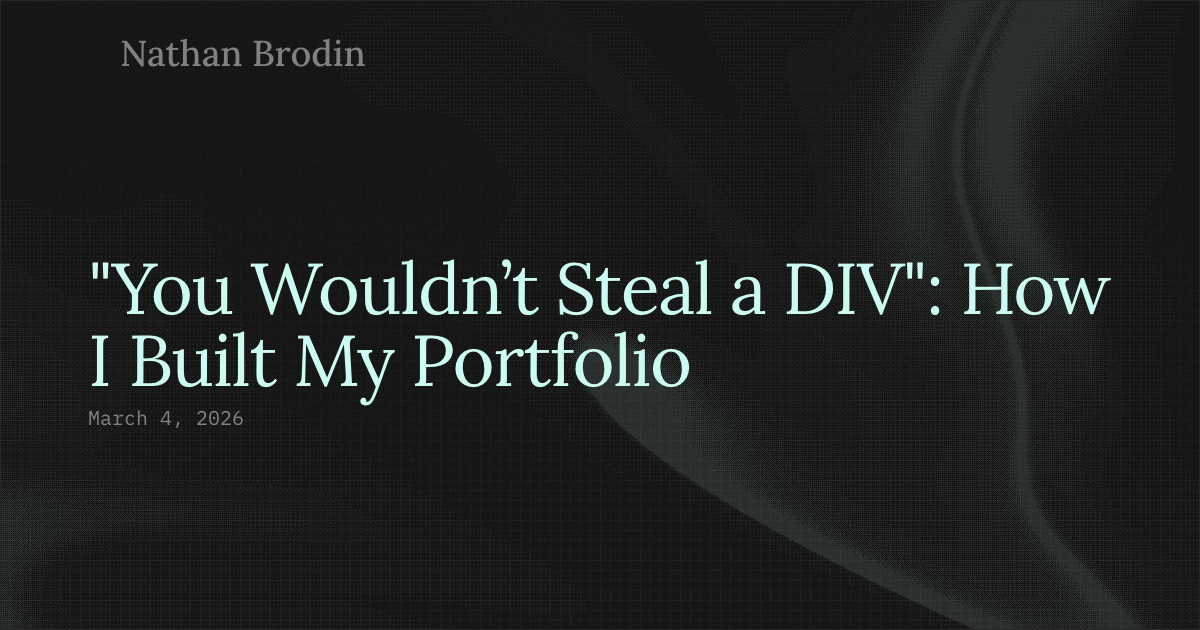
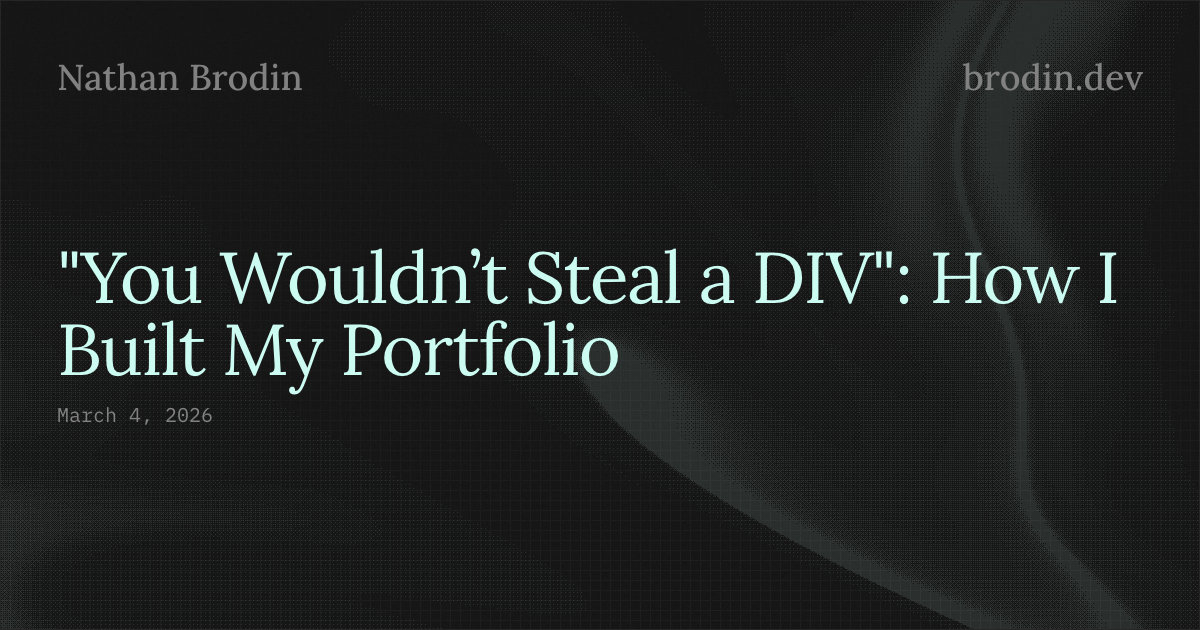
feat: new of images

Changed region(s): [[0.0308, 0.3921, 0.925, 0.6937], [0.0308, 0.0603, 0.3083, 0.1508], [0.8017, 0.0905, 0.9558, 0.1508]]

diff --git a/src/routes/blog/$slug/og/index.tsx b/src/routes/blog/$slug/og/index.tsx
@@ -41,21 +41,24 @@ function RouteComponent() {
     <Page>
       <div
         id="og"
-        className="relative mt-2 flex flex-col items-center overflow-hidden border"
+        className="relative mt-2 flex h-full flex-col items-center justify-between overflow-hidden border p-14"
         style={{ width: 1200, height: 630 }}
       >
-        <Section className="h-full border-none p-8">
+        <div className="flex w-full justify-between">
           <span className="text-muted-foreground font-display text-4xl font-medium text-balance">
             Nathan Brodin
           </span>
-        </Section>
-        <Section className="flex h-fit flex-col border-none py-24">
+          <span className="text-muted-foreground font-display text-4xl font-medium text-balance">
+            brodin.dev
+          </span>
+        </div>
+        <div className="flex flex-col gap-2">
           <PageTitle className="text-7xl">{post.title}</PageTitle>
           <PageDescription className="text-muted-foreground mt-2 font-mono text-xl">
             {formatDate(post.date)}
           </PageDescription>
-        </Section>
-        <Section className="h-full border-none"></Section>
+        </div>
+        <div />
         <div className="pointer-events-none absolute inset-0 -z-1 h-full w-full overflow-hidden opacity-10">
           <Dithering
             width={1200}

diff --git a/src/routes/og/index.tsx b/src/routes/og/index.tsx
@@ -33,18 +33,18 @@ function RouteComponent() {
     <Page>
       <div
         id="og"
-        className="relative mt-2 flex flex-col items-center overflow-hidden border"
+        className="relative mt-2 flex h-full flex-col justify-between overflow-hidden border p-14"
         style={{ width: 1200, height: 630 }}
       >
-        <Section className="h-full border-none"></Section>
-        <Section className="flex h-fit flex-col border-none py-24">
+        <div />
+        <div className="flex flex-col gap-2">
           <PageTitle className="text-9xl">Nathan Brodin</PageTitle>
           <PageDescription className="max-w-3xl text-2xl">
             A software engineer with a passion for web development, design, and
             user experience.
           </PageDescription>
-        </Section>
-        <Section className="h-full border-none">
+        </div>
+        <div>
           <ul className="flew-wrap relative flex gap-4 p-4">
             {stack.map((tech) => {
               return (
@@ -78,7 +78,7 @@ function RouteComponent() {
               )
             })}
           </ul>
-        </Section>
+        </div>
 
         <div className="pointer-events-none absolute inset-0 -z-1 h-full w-full overflow-hidden opacity-10">
           <Dithering
